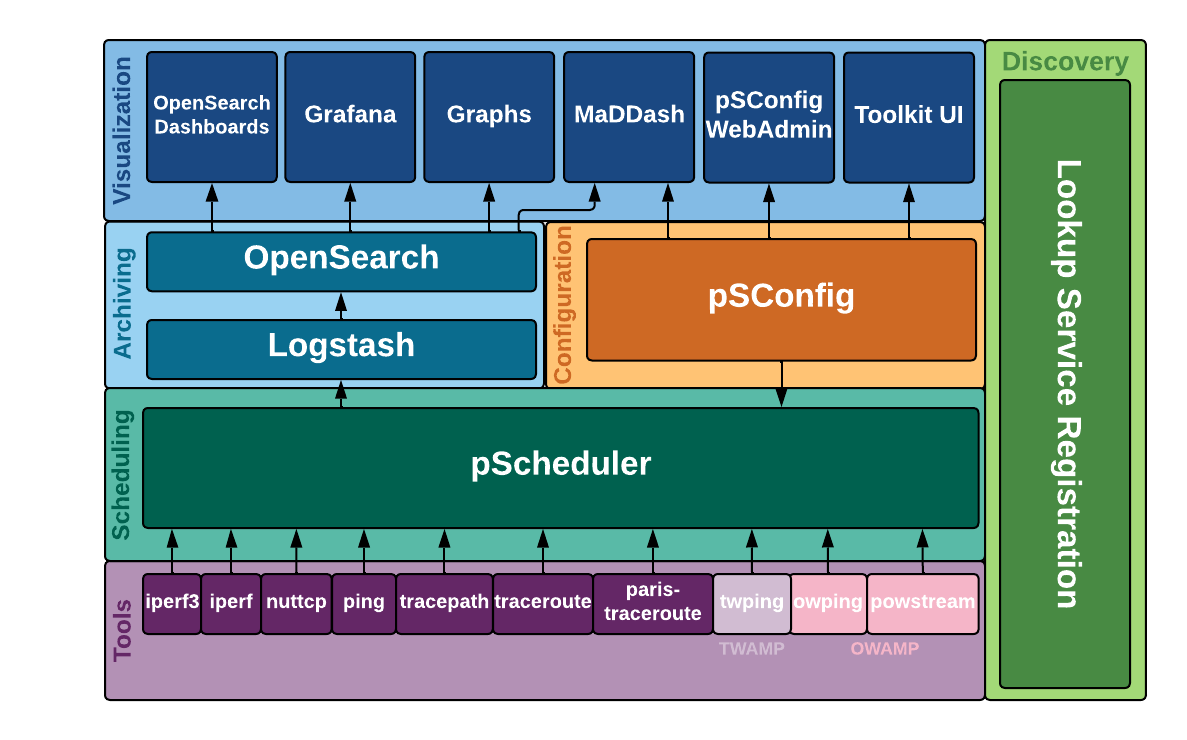
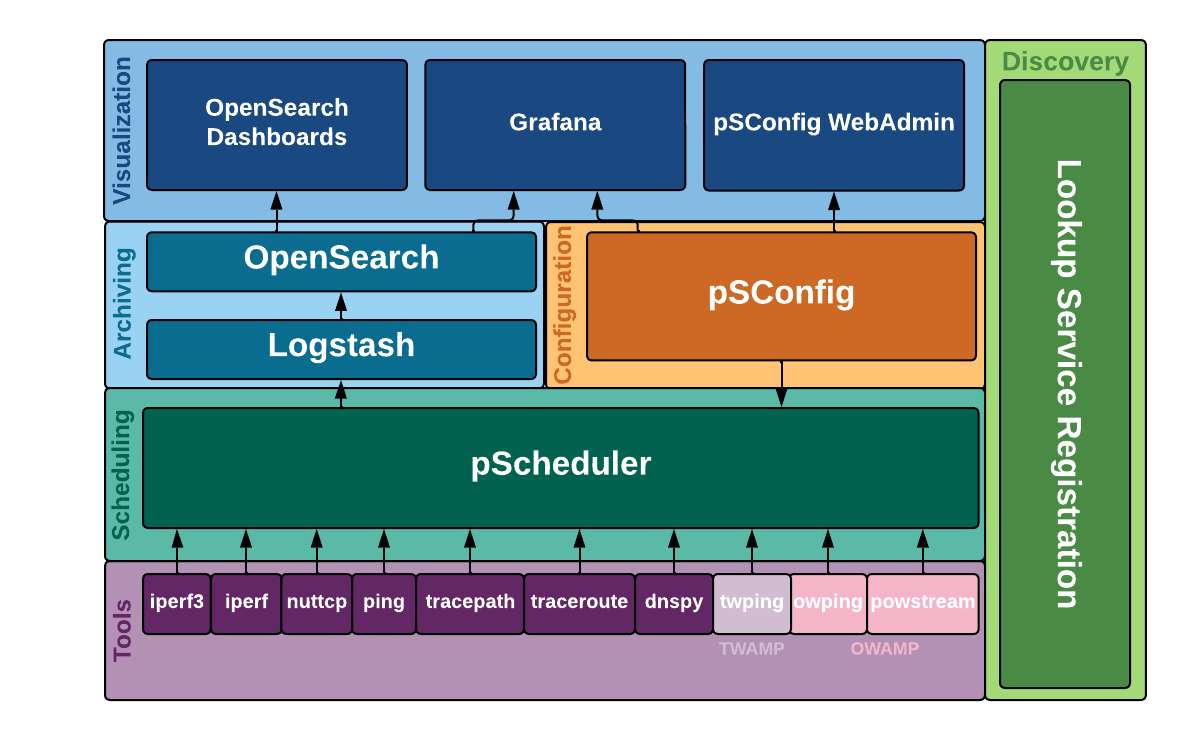
Some general cleanup for 5.1.0

diff --git a/conf.py b/conf.py
@@ -53,9 +53,9 @@ copyright = u'%s, perfSONAR Project' % now.year
 # built documents.
 #
 # The short X.Y version.
-version = '5.0.7'
+version = '5.1.0'
 # The full version, including alpha/beta/rc tags.
-release = '5.0.7'
+release = '5.1.0 Beta 1'
 
 # The language for content autogenerated by Sphinx. Refer to documentation
 # for a list of supported languages.

diff --git a/intro_about.rst b/intro_about.rst
@@ -26,6 +26,7 @@ perfSONAR includes numerous utilities responsible for carrying out the actual ne
     * tracepath_ - Another path trace tool that also measures path MTU
     * paris-traceroute_ - A packet trace tool that attempts to identify paths in the presence of load balancers
     * ping_ - The classic utility for determining reachability, round-trip time (RTT) and basic packet loss.
+    * `Many More <https://github.com/perfsonar/pscheduler>`_ - perfSONAR has a plugin architecture that supports many other tools such as measuring DNS and HTTP performance with more being added all the time. 
 
 .. _intro_about-scheduling:
 
@@ -43,7 +44,7 @@ More information on using the pScheduler can be found in the section :ref:`index
 
 Archiving
 ----------
-The archiving layer currently consists of components that store measurement information as time-series data. This layer is often referred to as the *measurement archive (MA)* and the plug-in architecture of pScheduler allows flexibility in what software is used at this layer. The default that ships with perfSONAR is a combinaton of `Logstash <https://www.elastic.co/logstash/>`_ and `OpenSearch <https://opensearch.org/>`_. These are externally developed open source components that add aadditional metdata and allow it to be queried in a flexible manner. The components can be installed on each measurement host if they meet hardware requirements or a single central instance may store results from multiple measurement hosts. For more information see :doc:`multi_ma_install`.
+The archiving layer currently consists of components that store measurement information as time-series data. This layer is often referred to as the *measurement archive (MA)* and the plug-in architecture of pScheduler allows flexibility in what software is used at this layer. The default that ships with perfSONAR is a combinaton of `Logstash <https://www.elastic.co/logstash/>`_ and `OpenSearch <https://opensearch.org/>`_. These are externally developed open source components that add additional metdata and allow it to be queried in a flexible manner. The components can be installed on each measurement host if they meet hardware requirements or a single central instance may store results from multiple measurement hosts. For more information see :doc:`multi_ma_install`.
 
 .. note: The :doc:`pScheduler<pscheduler_intro>` component does allow the creation of plug-ins for sending results to other types of archives, this is just the setup included with relevant perfSONAR bundles by default. See :doc:`pscheduler_ref_archivers` for a list of a few other options currently available as plug-ins. 
 
@@ -60,7 +61,7 @@ The configuration layer is where desired measurements are defined along with ins
 pSConfig assists with these challenges by providing agents to automate each of the configuration tasks listed above. This includes:
 
     #. **pSconfig pScheduler Agent** - The agent responsible for reading a template and configuring the tasks defined in pScheduler. See :doc:`psconfig_pscheduler_agent` for more details on this agent.
-    #. **pSConfig MaDDash Agent** - The agent responsible for reading a template and configuring MaDDash to display the results of defined tasks in a dashboard. See :doc:`psconfig_maddash_agent` for more details on this agent.
+    #. **pSConfig Grafana Agent** - The agent responsible for reading a template and configuring Grafana to display the results of defined tasks in a dashboard. See :doc:`psconfig_maddash_agent` for more details on this agent.
 
 For complete information on pSConfig start with :doc:`psconfig_intro` for more details on pSConfig basic concepts/terminology.
 
@@ -72,12 +73,11 @@ Visualization
 
 perfSONAR also includes components for visualizing the data. These components provide a window into the data and are the primary way most operators analyze and identify network issues.  The primary tools provided by the main perfSONAR project are:
 
-    * **Graphs** - The perfSONAR graphs package provides a set of graphs that display the various measurements over time and provide useful information about the hosts involved. See :doc:`using_graphs` for more detail.
-    * **MaDDash** - This component queries the :ref:`archiving layer <intro_about-archiving>` periodically for measurements and displays a dashboard indicating the performance of each relative to a set of defined thresholds. It can also send alerts based on patterns in the dashboard. See the :doc:`MaDDash documentation <maddash_intro>` for more details.
+    * **Grafana** - perfSONAR provides dashboards for the `Grafana <https://grafana.com/>`_ visualization framework. The dashboards display the various measurements over time and provide useful information about the hosts involved.
+    * **OpenSearch Dashbaords** - `OpenSearch Dashboards <https://opensearch.org/docs/latest/dashboards/index/>`_ is an interface to OpenSearch that allows you to view data and access various OpenSearch settings.
 
 In addition to displaying results, there are also graphical interfaces available for configuring perfSONAR components:
 
-    * **Toolkit GUI** - This ships with every perfSONAR Toolkit and allows defining tasks for the local pSConfig pScheduler agent. See :doc:`manage_regular_tests` for more details.
     * **pSConfig Web Admin** - This is a web-based application for defining remote templates that can be read by the pSConfig Agents. See :doc:`pwa` for more details.
     
 .. _intro_about-discovery:
@@ -96,5 +96,4 @@ In general, no configuration is needed of the registration component but for a g
 .. _nuttcp: https://fasterdata.es.net/performance-testing/network-troubleshooting-tools/nuttcp/
 .. _traceroute: https://linux.die.net/man/8/traceroute
 .. _tracepath: https://linux.die.net/man/8/tracepath
-.. _paris-traceroute: http://manpages.ubuntu.com/manpages/trusty/man8/paris-traceroute.8.html
 .. _ping: https://linux.die.net/man/8/ping

diff --git a/install_el.rst b/install_el.rst
@@ -1,9 +1,6 @@
 ************************************************************
 Bundle Installation on RedHat Enterprise Linux Variants 
 ************************************************************
- 
-note:: For older CentOS 7 installation see :doc:`install_centos`
-
 
 perfSONAR combines various sets of measurement tools and services bundled in different useful ways. RPMs are available that install the bundles described in :doc:`install_options`. The steps in the remaining sections of this document detail the steps required for installing these bundles.
 
@@ -11,7 +8,7 @@ System Requirements
 ==================== 
 * **Operating System:**
 
-  * **Alma 8, Alma 9, Rocky 8 or Rocky 9** x86_64 installations are supported. Other RedHat-based operating systems may work, but are not officially supported at this time.
+  * **Alma 9 or Rocky 9** x86_64 installations are supported. Other RedHat-based operating systems based on EL9 may work, but are not officially supported at this time.
   * See :doc:`install_hardware` for hardware requirements and more.
 
 .. note:: Installing a graphical/desktop environment with perfSONAR is not supported.  These environments generally come with a Network Manager that conflicts with the way that perfSONAR is tuning the network interface parameters.  We recommend doing only server grade OS installs.
@@ -25,29 +22,19 @@ Installation
 
 Step 1: Configure DNF 
 ---------------------- 
-.. note:: If your system is using dnf/yum priorities make sure that repositories required for perfSONAR are higher priority than anything else to avoid conflicts with older versions. Please note that yum maintainers do not recommend using priorities.
+.. note:: If your system is using dnf priorities make sure that repositories required for perfSONAR are higher priority than anything else to avoid conflicts with older versions. Please note that dnf maintainers do not recommend using priorities.
 
 The process configures dnf to point at the necessary repositories to get packages needed for perfSONAR. **You will need to follow the steps below as privileged user**:
-
-.. note:: All commands work on both EL8 and EL9 based operating systems unless otherwise indicated
 
 #. Install the EPEL RPM::
 
     dnf install epel-release
 
-#. **EL8-only** Enable the PowerTools repository on an EL8 system::
-
-    dnf config-manager --set-enabled powertools
-
-#. **EL9-only** Enable the CBR repository on an EL9 system::
+#. Enable the CBR repository::
 
     dnf config-manager --set-enabled crb
 
-#. **EL8-only** Install the perfsonar-repo RPM for EL8::
-
-    dnf install http://software.internet2.edu/rpms/el8/x86_64/latest/packages/perfsonar-repo-0.11-1.noarch.rpm
-
-#. **EL9-only** Install the perfsonar-repo RPM for EL9::
+#. Install the perfsonar-repo RPM for EL9::
 
     dnf install http://software.internet2.edu/rpms/el9/x86_64/latest/packages/perfsonar-repo-0.11-1.noarch.rpm
 
@@ -145,19 +132,7 @@ You can also enable dnf ‘auto updates’ to ensure you always have the most cu
 
 .. _install_el_step6:
 
-Step 6: Service Watcher
-------------------------
-The ``perfsonar-toolkit-servicewatcher`` installs scripts that check if important processes are running and restarts if they have stopped unexpectedly. 
-
-The install automatically configures cron to run the service_watcher regularly.
-
-To run the script manually, run::
-
-  /usr/lib/perfsonar/scripts/service_watcher
-
-.. _install_el_step7:
-
-Step 7: Register your services 
+Step 6: Register your services 
 ------------------------------- 
 
 Note: this step can be done through the web interface if the perfsonar-toolkit bundle was installed. 
@@ -165,9 +140,9 @@ See :doc:`manage_admin_info`.
 
 No actual configuration is required but filling fields such as administrator_email, site_name, city, country, latitude, longitude, etc. are **highly recommended**. You can add these by removing the leading `#` of any property and filling it out with a proper value for your host. Changes will be picked-up automatically without need for any restarts.
 
-.. _install_el_step8:
+.. _install_el_step7:
 
-Step 8: Starting your services 
+Step 7: Starting your services 
 ------------------------------- 
 All services should be started after install. Additionally, you can start all the services by rebooting the host since all are configured to run by default. In order to check services status issue the following commands::
 

diff --git a/install_config_first_time.rst b/install_config_first_time.rst
@@ -72,11 +72,10 @@ perfSONAR hosts are just like any other host and need to be actively managed to 
   * An important aspect of security is to stay informed. Multiple system administrators from your site should be subscribed to the perfsonar security `announcement list <https://lists.internet2.edu/sympa/subscribe/perfsonar-announce>`_. This mailing list keeps users up-to-date on actions that need to be taken when critical security updates for both perfSONAR and third-party packages are released. 
   * Always follow best common security practices when it comes to creating user accounts and choosing passwords. Normal precautions should be taken to protect the root password as it can be used to make changes to the system. For example, safe password practices would recommend a password that contains a mixture of letters of different case, numbers, symbols, and a length greater than 8.  It is also not recommend to re-use passwords on multiple machines, in the event of a system breach.
   * If you have enabled SSH on the system, consider restricting access to specific subnets to the SSH port via IPTables, or implement a *jump host* that allows only logins from one location.  
-  * Consider configuring rsyslog to send logs to other locations for aggregation and analysis
+  * Consider configuring syslog to send logs to other locations for aggregation and analysis
   * If email has been enabled on the host, forward email from root to a central location
   * If applicable, use a management network on a spare networking interface to further restrict the access profile for users and system data.  
-  * If your site uses any form of automated management (CFEngine, Puppet, Forman, etc.), integrate the perfSONAR node into this procedure.  
-  * If you run `Nagios <http://www.nagios.org>`_, add your perfSONAR host to your monitoring infrastructure. Consider running some of the nagios `security plugins <http://exchange.nagios.org/directory/Plugins/Security#/>`_ such as `check_yum <http://exchange.nagios.org/directory/Plugins/Operating-Systems/Linux/check_yum/details>`_
+  * If your site uses any form of automated management (e.g. Ansible), integrate the perfSONAR node into this procedure.  
   * Automatic updates are enabled by default on all perfSONAR Toolkit hosts. In order to understand how to update your Toolkit and if automatic updates are right for your system, see :doc:`manage_update`
   * The perfSONAR Toolkit ships with a default iptables rule-set and intrusion detection system (IDS) software. In order to learn more about these components and how to do things like add custom firewall rules see :doc:`manage_security`
 

diff --git a/pscheduler_intro.rst b/pscheduler_intro.rst
@@ -103,18 +103,6 @@ If you want tp be able to schedule tasks on your host you will need to run a pSc
 
     * :doc:`pscheduler_server_running`
     * :doc:`config_pscheduler_limits`
-    
-
-BWCTL Backward Compatibility
-============================
-pScheduler was introduced in perfSONAR version 4.0 and replaced a component called BWCTL. pScheduler is a completely new codebase and protocol. It does NOT speak the BWCTL protocol natively but it does provide a backward compatibility strategy with BWCTL. This strategy does have limitations though and works as follows: 
-
-    * **For tests from a host running pScheduler to a host with only BWCTL** - For *throughput*, *rtt* and *trace* tests, pScheduler will automatically detect the lack of pScheduler on the remote-end and the presence of BWCTL. It will then choose a pScheduler :term:`tool` that  executes the *bwctl*, *bwping* or *bwctraceroute* command instead of the underlying tool directly. For *throughput* tests, this has the side effect of requiring more time on the pScheduler schedule since BWCTL may not run the test immediately. *If the BWCTL test does not start within 60 seconds of the start time assigned by pScheduler, the test will fail*.
-    * **For tests from a host running BWCTL to a host with only pScheduler** - perfSONAR 4.0 still runs the BWCTL server to support this use case. The pScheduler server knows nothing about the BWCTL server's schedule and vice versa, *so it is possible tests could collide*. Depending on how many remote sites initiates tests to you via BWCTL, the risk of this collision may be relatively low.  
-    
-Starting in 4.1, the BWCTL backward compatibility tools are not included in the default installation. If you would like to install them (along with BWCTL) you can install the `perfsonar-bwctl-compat` package using your operating system's package manager.
-
-If you also frequently use BWCTL at the command-line, we suggest you stop and start using the pScheduler command line. For a guide on how to convert your BWCTL commands to pScheduler see :doc:`pscheduler_ref_bwctl`.
 
 More Information
 ================

diff --git a/index.rst b/index.rst
@@ -35,7 +35,6 @@ Installation
    install_quick_start
    install_config_first_time
    install_el
-   install_centos
    install_debian
    install_docker
    install_ansible
@@ -80,7 +79,6 @@ Running Measurements with pScheduler
    pscheduler_ref_tests_tools
    pscheduler_ref_archivers
    pscheduler_ref_contexts
-   pscheduler_ref_bwctl
    pscheduler_disk_to_disk
    
 Managing Multiple Hosts with pSConfig
